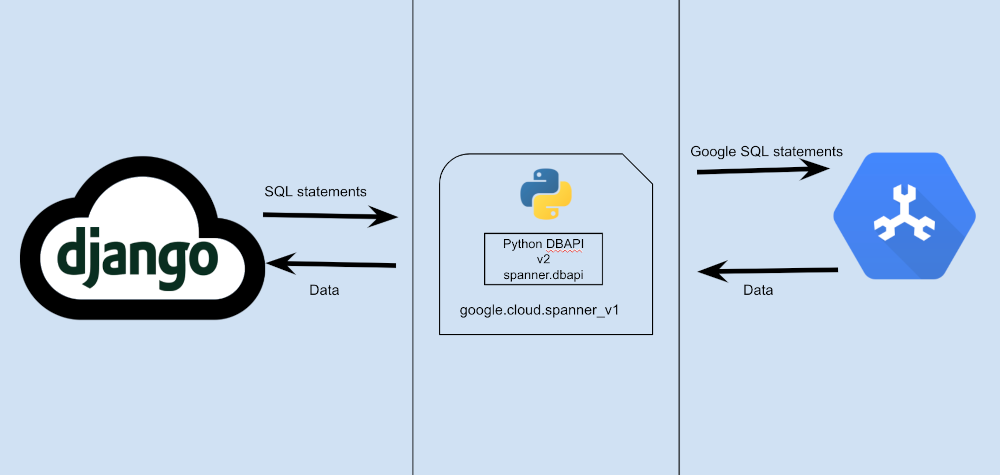
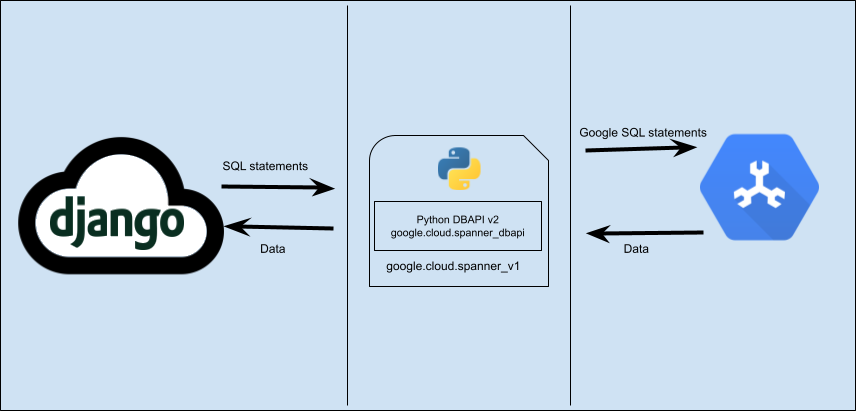
docs: update limitations about json query support and django version support. (#729)
* refactor: update asset image files with latest changes

* docs: update limitations about json query support

* docs: update readme with supported django versions detail

* docs: update django project url in readme

diff --git a/packages/django-google-spanner/docs/limitations.rst b/packages/django-google-spanner/docs/limitations.rst
@@ -158,8 +158,9 @@ Example:
 
 More details about this issue can be tracked `here <https://code.djangoproject.com/ticket/33052>`_. 
 
-Support for Json field is currently not there
-~~~~~~~~~~~~~~~~~~~~~~~~~~~~~~~~~~~~~~~~~~~~~
+Support for query inside JSONfield is currently not there
+~~~~~~~~~~~~~~~~~~~~~~~~~~~~~~~~~~~~~~~~~~~~~~~~~~~~~~~~~~
 
-This library currently does not support json. For more info on json support support follow this `github issue <https://github.com/googleapis/python-spanner-django/issues/707>`_.
-
+We have also added support for JSON object storage and retrieval with Django 3.2.x support in v2.2.1b4 release,
+but querying inside the JSONfield is not supported in the current `django-google-spanner` release.
+This feature is being worked on and can be tracked `here <https://github.com/googleapis/python-spanner-django/issues/716>`_.

diff --git a/packages/django-google-spanner/README.rst b/packages/django-google-spanner/README.rst
@@ -80,14 +80,13 @@ Windows
 Supported versions
 ~~~~~~~~~~~~~~~~~~
 
-At the moment, this library only supports `Django 2.2
-<https://docs.djangoproject.com/en/2.2/>`__. It also requires Python version
-3.6 or later.
+The library supports `Django 2.2
+<https://docs.djangoproject.com/en/2.2/>`_, and `Django 3.2
+<https://docs.djangoproject.com/en/3.2/>`_.
+Both versions are long-term support (LTS) releases for the
+`Django project<https://www.djangoproject.com/download/#supported-versions>_`.
+The minimum required Python version is 3.6.
 
-This package follows a common versioning convention for Django plugins: the
-major and minor version components of this package should match the installed
-version of Django. That is, ``django-google-spanner~=2.2`` works with
-``Django~=2.2``.
 
 Installing the package
 ~~~~~~~~~~~~~~~~~~~~~~
